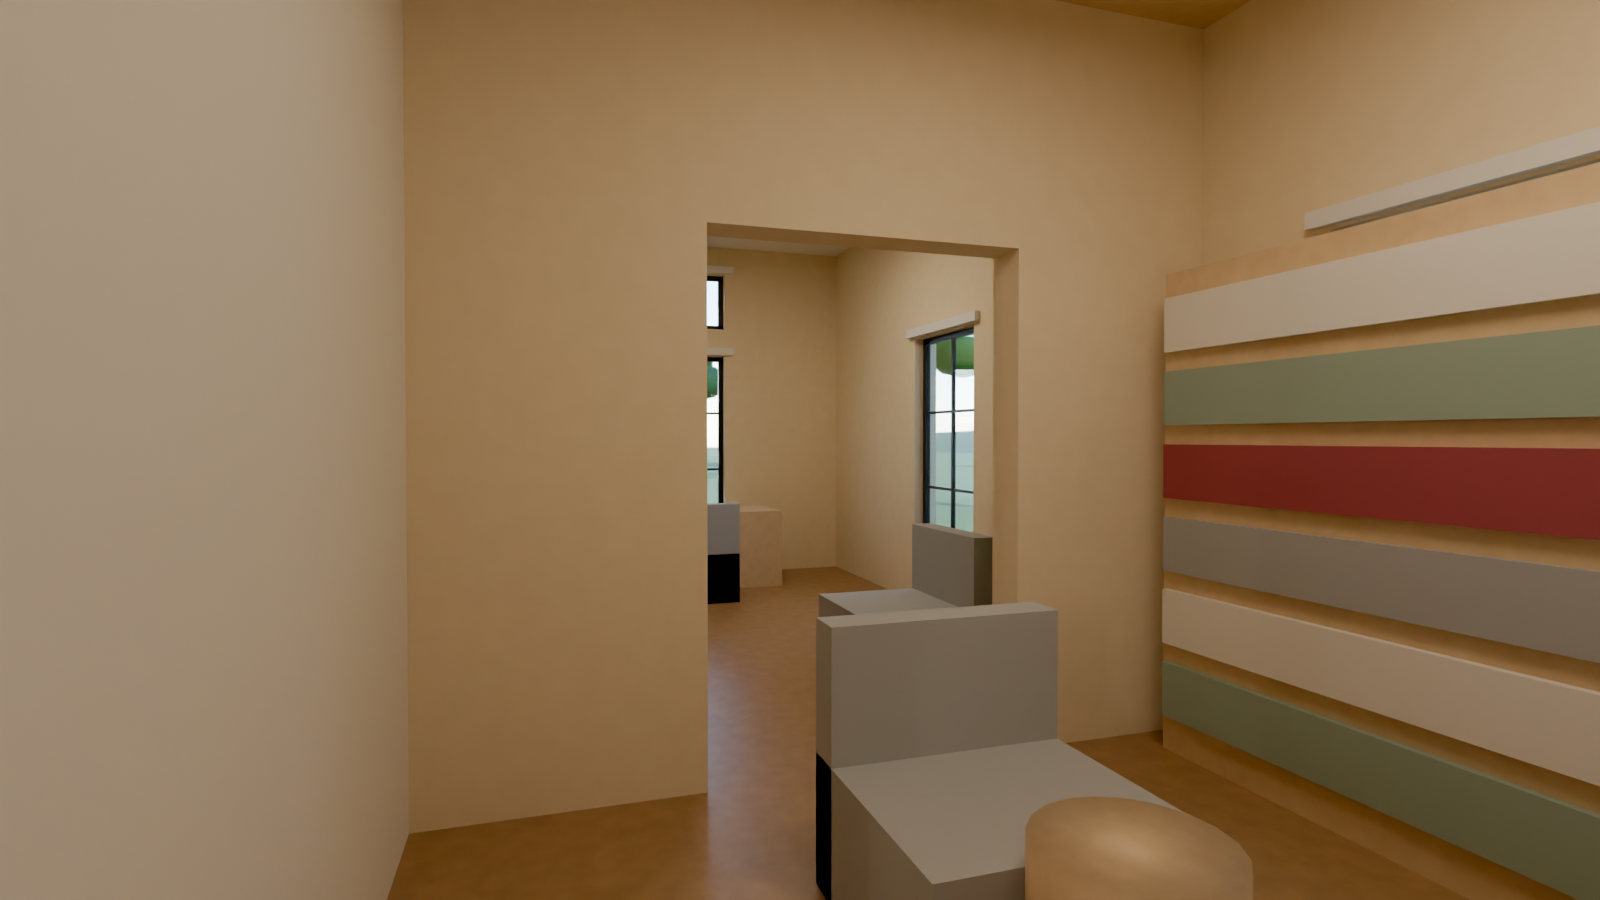
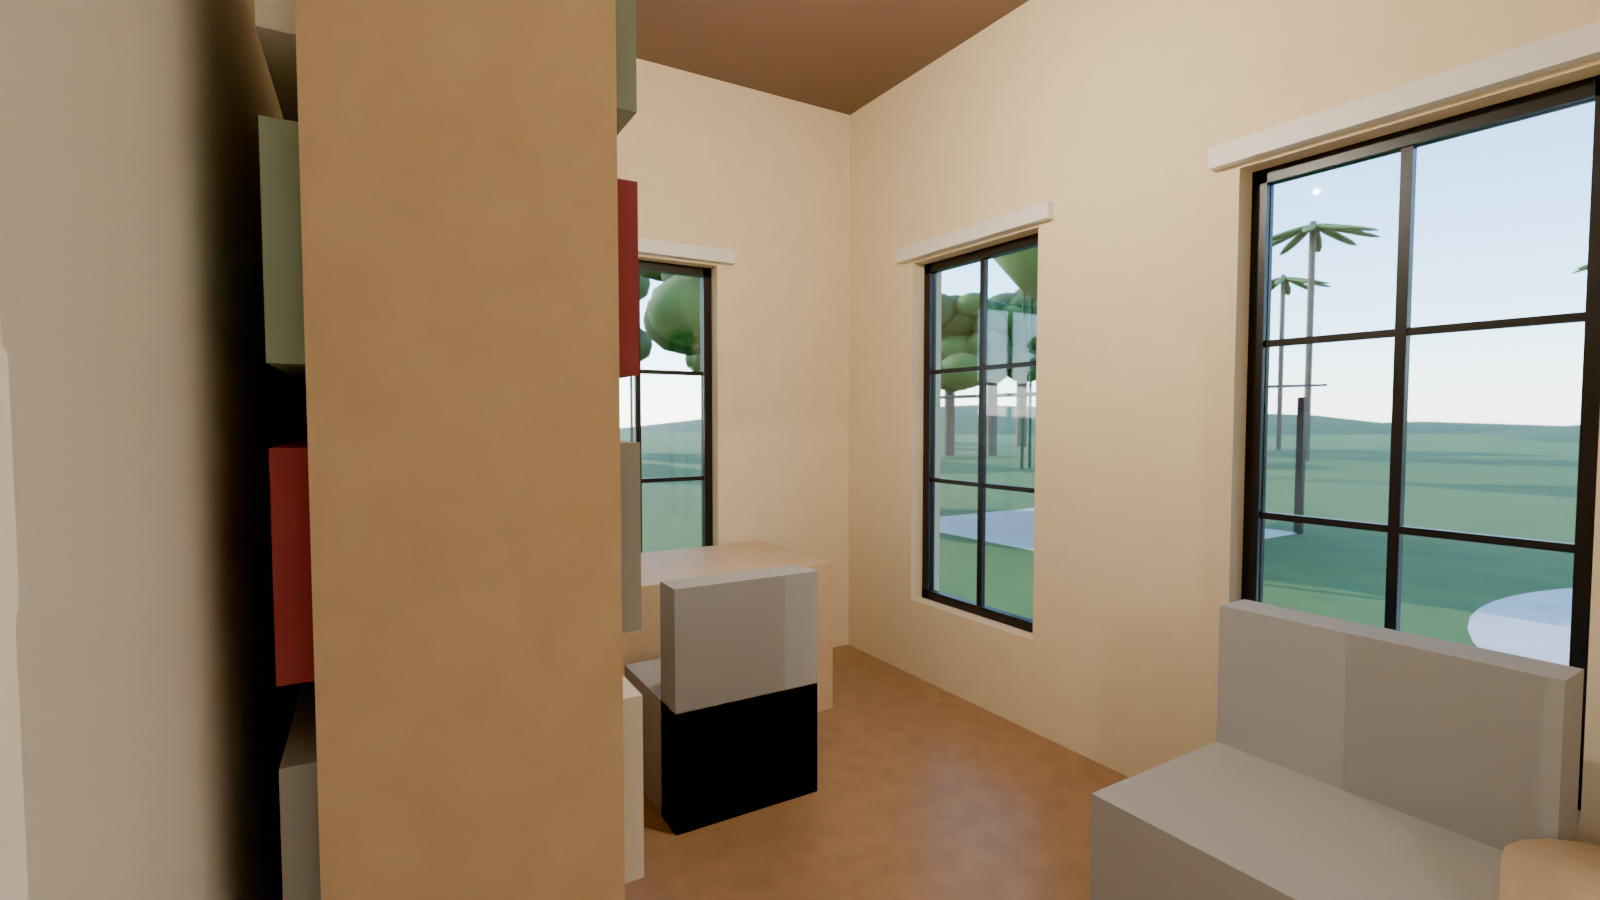
Render budget house views; interior lighting fixes
Claude-Session: https://claude.ai/code/session_013arfRtvMAJbRad2rTT5SyR

diff --git a/garo-hills-bungalow/src/b_render.py b/garo-hills-bungalow/src/b_render.py
@@ -341,7 +341,7 @@ def main():
         "aerial": dict(cam=(105, 100, 72, 20, 10, 0, 30), sun=(38, 225)),
         "cutaway": dict(cam=(66, 62, 64, 23, 13, 0, 30), sun=(55, 200)),
         "hall": dict(cam=(15.0, 27.0, 5.0, 29, 4, 4.5, 16), sun=(24, 190)),
-        "kitchen": dict(cam=(31.0, 15.4, 5.2, 45, 8.5, 3.6, 16), sun=(24, 160)),
+        "kitchen": dict(cam=(33.6, 15.0, 5.2, 45, 8.5, 3.6, 16), sun=(24, 160)),
         "bed1": dict(cam=(0.9, 17.9, 5.0, 13, 27, 3.0, 16), sun=(18, 250)),
         "library": dict(cam=(13.2, 9.3, 5.0, 1, 2, 4.4, 16), sun=(30, 250)),
     }
@@ -349,8 +349,15 @@ def main():
     setup_world(v["sun"][0], v["sun"][1], 0.45)
     camera(*v["cam"][:6], lens=v["cam"][6])
     if INTERIOR:
-        for (x, y) in ((22, 6), (22, 20), (38, 11.5), (7, 5), (7, 22), (35, 22)):
+        for (x, y) in ((22, 6), (22, 20), (35, 11.5), (41, 11.5), (35, 11.5), (7, 5), (7, 22), (35, 22)):
             area_light(x, y, 11.6, 4, 260)
+        for (x, y, e) in ((38, 12, 1800), (22, 8, 1500), (22, 21, 1500), (7, 5, 900), (35, 22, 900), (7, 22, 900)):
+            pl = bpy.data.lights.new("pt", "POINT")
+            pl.energy = e
+            pl.color = (1, 0.88, 0.72)
+            po = bpy.data.objects.new("pt", pl)
+            po.location = (x, -y, 9.0)
+            bpy.context.collection.objects.link(po)
     sc.render.engine = "CYCLES"
     sc.cycles.device = "CPU"
     sc.cycles.samples = SAMPLES
@@ -368,7 +375,7 @@ def main():
         sc.view_settings.look = "AgX - Punchy"
     except Exception:
         pass
-    sc.view_settings.exposure = (1.5 if VIEW == "library" else 0.6) if INTERIOR else 0.0
+    sc.view_settings.exposure = {"library": 1.0, "hall": 0.9, "kitchen": 1.2}.get(VIEW, 0.6) if INTERIOR else 0.0
     sc.render.filepath = OUT
     bpy.ops.render.render(write_still=True)
     print("WROTE", OUT)
